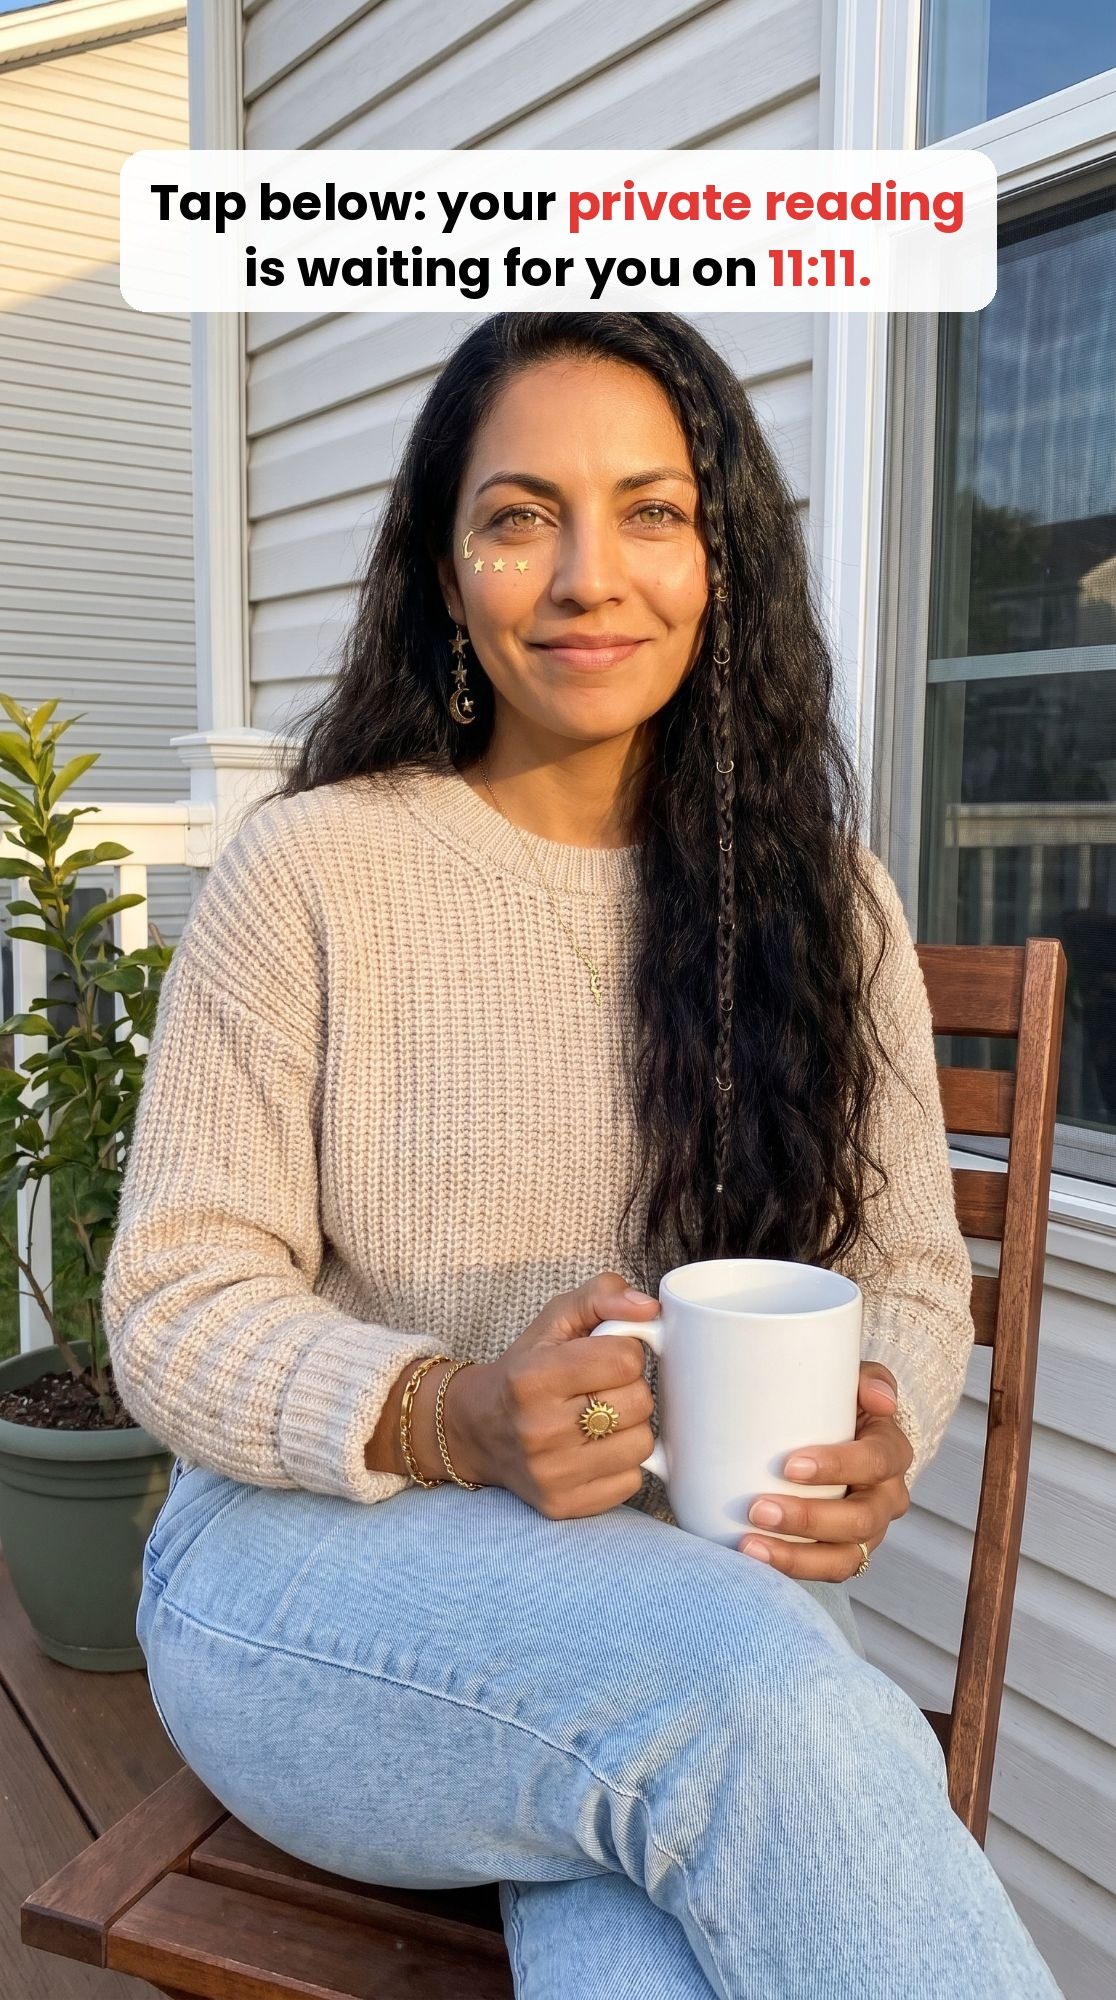
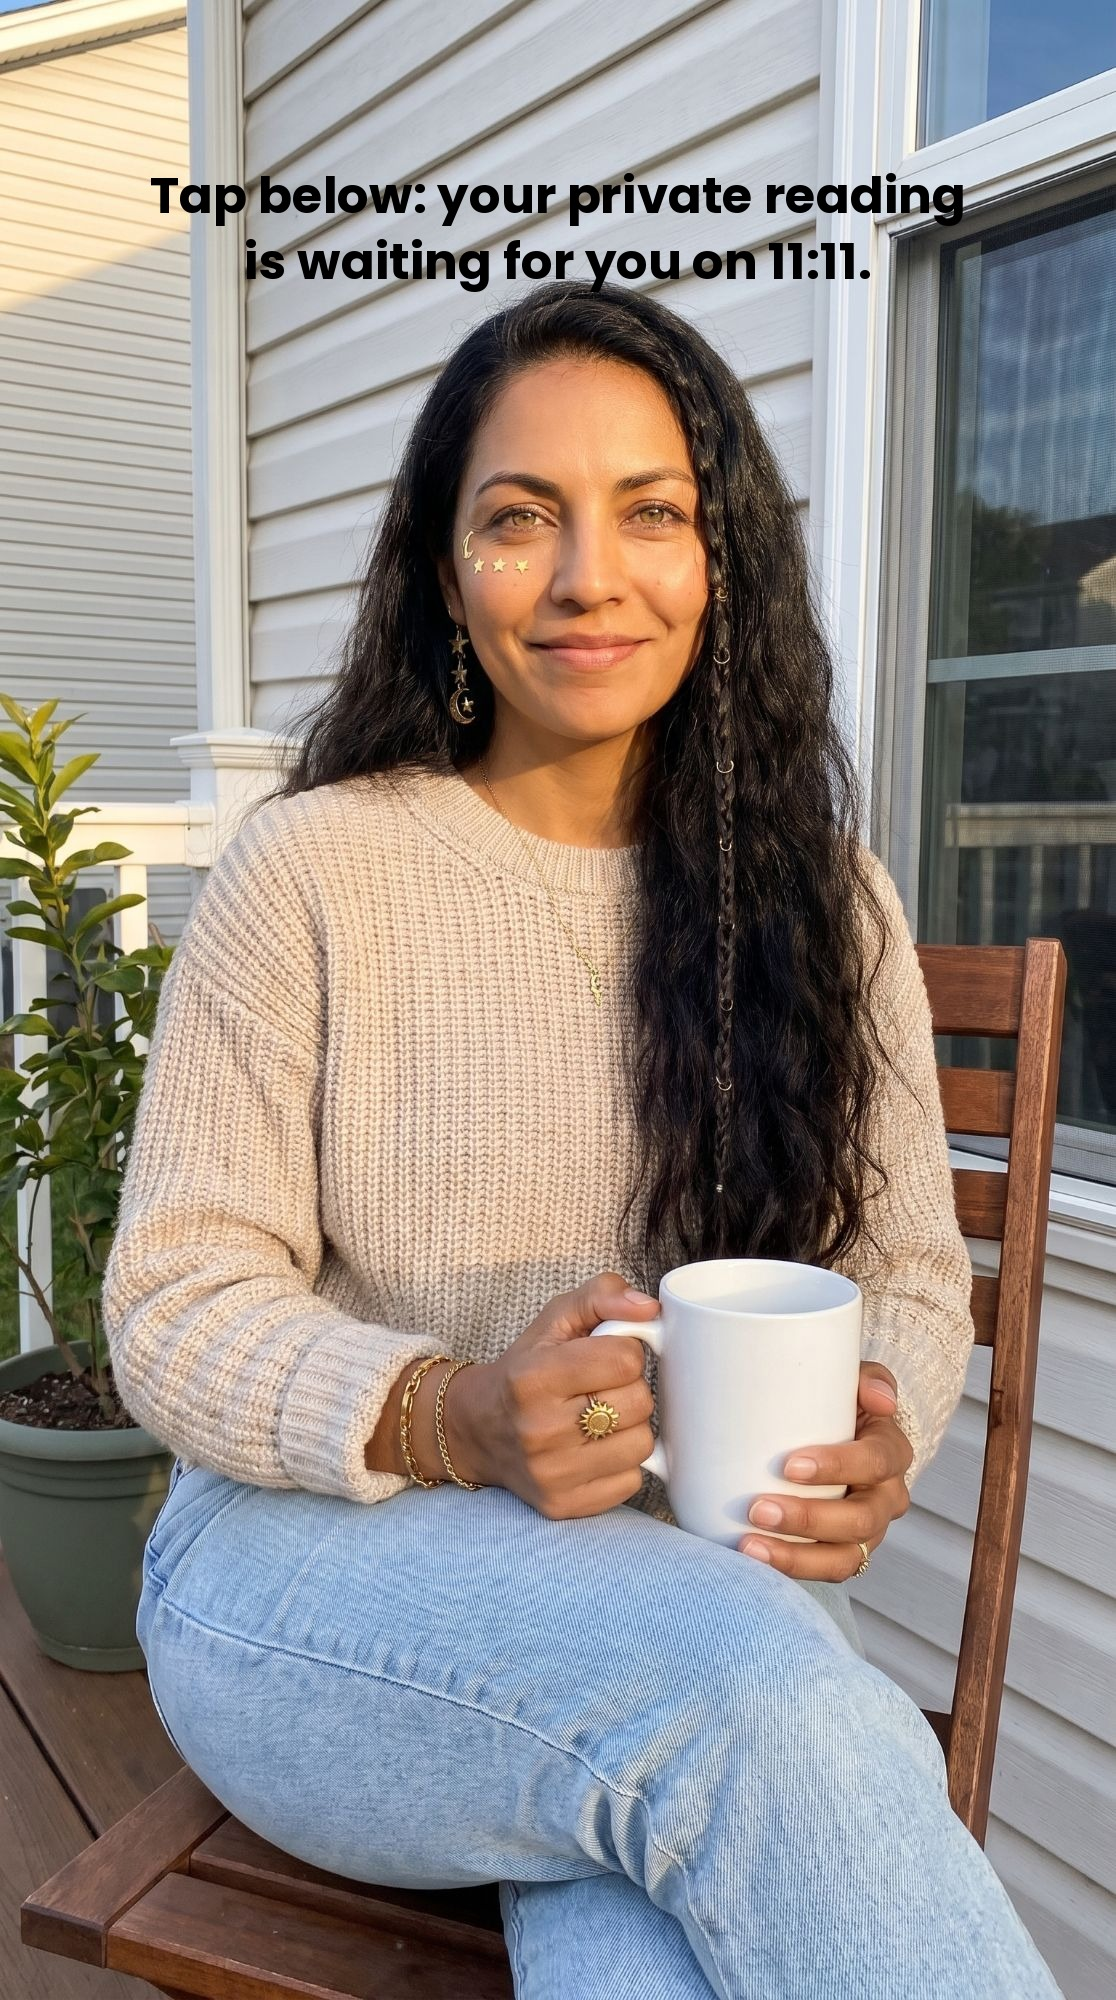
story-1111: texto refeito no padrão do painel (preto, uma cor, sem caixa)
Claude-Session: https://claude.ai/code/session_015pPHpCSoCHwSATaEJmnuf6

Changed region(s): [[0.0914, 0.062, 0.914, 0.155]]

diff --git a/BIBLIOTECA-DE-TAKES.md b/BIBLIOTECA-DE-TAKES.md
@@ -239,4 +239,4 @@ Fora da numeração do nora. Peças com o nome do teste: `faceNN-IMG`, `faceNN-C
 - **nora56-final e nora56-final-FACE (11/11, editado aqui, P45):** `nora47-PRE-A` + T01b + T02 + T04, 24,4 s (FACE: espelhado, mais claro, 1,1x, 22,3 s). A mesma repetição do T04 do nora55 ("your reading is" 2x) cortada (`specs/corte-repeticoes-nora56.txt`), com zoom 1,08 no fim. **Prova:** a avaliação da Karen W. (`05-karen-sem-hora.png`) nos últimos ~3 s do T02 (15,1 a 18,1 s), X 0 · Y −240 (desceu de −200 para não encostar no 222), com a caixa "Rated 4.8 by 2,200+ people" no topo (o ★ não existe na fonte Poppins: saiu); a legenda some nesse trecho. Números: 11:11 amarelo (direita) e 888 rosa (esquerda) na altura dos olhos, Y 282; 222 ciano (ombro, à esquerda). **Refeito às ~13h40:** a caixa do topo cobria os olhos (o aluno reparou); agora 2 linhas, tamanho 9, Y 458 ("WEDNESDAY, NOVEMBER 11TH" / "today is 11:11, this is for you"), faixas em Y 480.
 - **nora57-final e nora57-final-FACE (11/11, editado aqui, P45):** `nora47-PRE-A` + T01c + T02 + T04, 24,2 s (FACE 22,0 s). A mesma repetição do T04 cortada ([23,08 s, 24,08 s) do montado; `specs/corte-repeticoes-nora57.txt`), zoom 1,08 no fim. Sem prova (controle). Já no layout novo: caixa do topo em 2 linhas acima dos olhos ("WEDNESDAY, NOVEMBER 11TH" / "if you keep seeing 11:11, this is for you", Y 458), faixa do story em Y 480, 11:11 rosa e 888 ciano na altura dos olhos (Y 282), 222 amarelo no ombro.
 - **`story-1111` (11/11 ~16h10, 4 opções do aluno, Nano Banana Pro, 0 crédito; `ferramentas-painel/dia-1111/story-1111-4-opcoes.jpg`): escolhida a 3ª** (o aluno gostou; a Nora sentada na cadeira de madeira da varanda, suéter bege, jeans, caneca branca nas duas mãos, sorriso leve olhando para a lente; parede branca de madeira e janela atrás; lua com as estrelinhas no lado esquerdo da imagem). Texto em 2 linhas, letra preta (a parede é clara), no alto, entre a barra do Instagram e o alto da cabeça (~7% a 14% da altura); adesivo de link embaixo, no centro, sobre o jeans (~80% a 88%). A 1ª tinha mais espaço livre em cima; a 2ª e a 4ª, rosto perto demais do alto.
-- **`story-1111` em 2K (aluno, 11/11 ~16h20; `ferramentas-painel/dia-1111/story-1111.jpg`, 1116×2000) e a versão com o texto posto aqui (`story-1111-texto-1111.jpg`):** caixa branca arredondada, Poppins Bold, "Tap below: your **private reading** / is waiting for you on **11:11.**" (as partes em negrito em vermelho #E53935), de 10,8% a 89,2% da largura (dentro da margem do Face) e de 7,5% a 15,6% da altura (acima da cabeça). O aluno põe só o adesivo de link ("Open my reading") embaixo, sobre o jeans.
+- **`story-1111` em 2K (aluno, 11/11 ~16h20; `ferramentas-painel/dia-1111/story-1111.jpg`, 1116×2000) e a versão com o texto posto aqui (`story-1111-texto-1111.jpg`):** **refeito no padrão do painel** (o aluno cobrou: eu tinha feito uma caixa branca com 2 cores, como a dos vídeos, contra o painel, que pedia uma cor só, sem caixa, branco com contorno preto ou preto em parede clara): letra preta, uma cor, sem caixa, Poppins Bold, 2 linhas, acima da cabeça (~8% a 14% da altura), dentro da margem do Face. O aluno põe só o adesivo de link ("Open my reading") embaixo, sobre o jeans.

diff --git a/LICOES-FLOW-E-PROMPTS.md b/LICOES-FLOW-E-PROMPTS.md
@@ -538,3 +538,6 @@ If the generation of any video fails, please resubmit ONLY the item that failed 
 
 ### 11/11/2026 ~13h40 - A caixa do topo cobria os olhos na selfie de perto (o aluno reparou no nora56)
 - Na `manha1111-IMG` (selfie de perto, rosto grande), os olhos ficam entre **20% e 23% da altura**; a caixa de 3 linhas no tamanho 10 (Y 397) ia de 12,8% a 25,2% e cobria os olhos no Take 1 (o nora55 saiu assim). **Regra para selfie de perto:** caixa do topo em **2 linhas, tamanho 9, Y 458** (10% a 18%: a data em vermelho + uma linha curta); faixas de 1 linha ("Rated…", "Your private reading is in my story") em **Y 480** (10% a 15%); os números das pontas de cima descem para **Y 282** (26% a 30%, ao lado do cabelo), porque a caixa ocupa a faixa deles. Na prévia, conferir sempre um quadro do Take 1 com os olhos livres.
+
+### 11/11/2026 ~16h30 - Texto do story fora do padrão do painel (o aluno cobrou)
+- Pus o texto do `story-1111` numa caixa branca com 2 cores (o estilo da caixa dos vídeos), mas o painel pedia **uma cor só, sem caixa: branco com contorno preto fino, ou preto se a parede for clara** (o padrão dos stories que deram 19% de toques). Refeito em preto. **Regra:** texto de story segue o campo `textos.posicao` do painel; antes de mandar, conferir a imagem contra ele.
